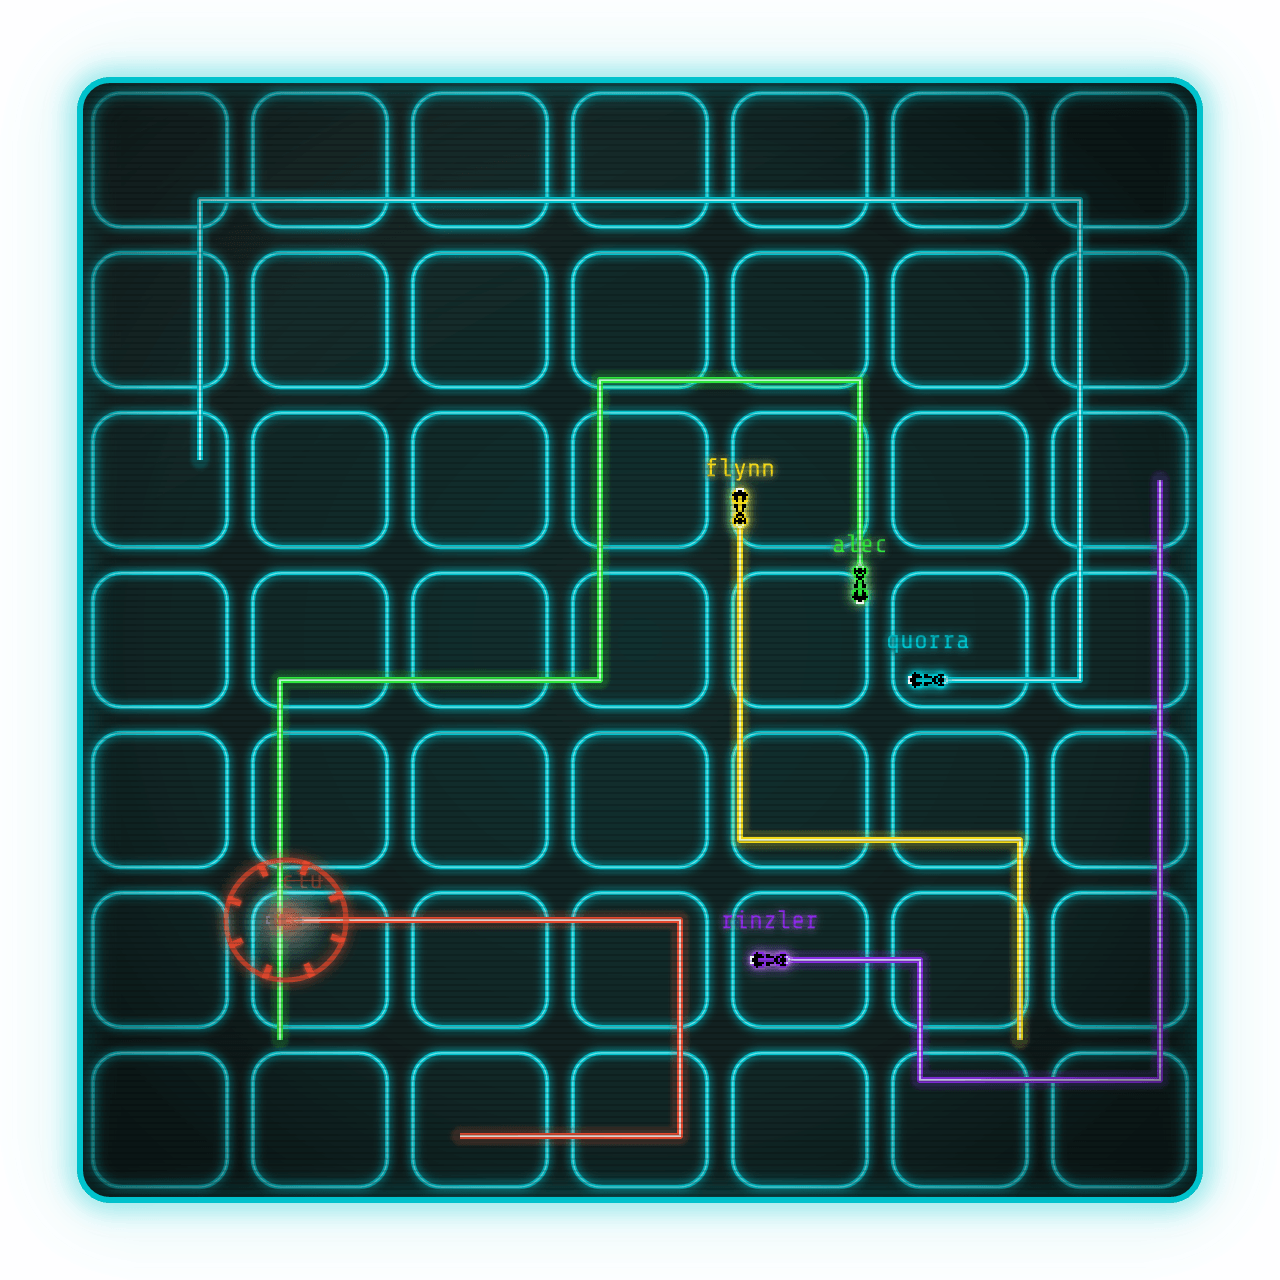
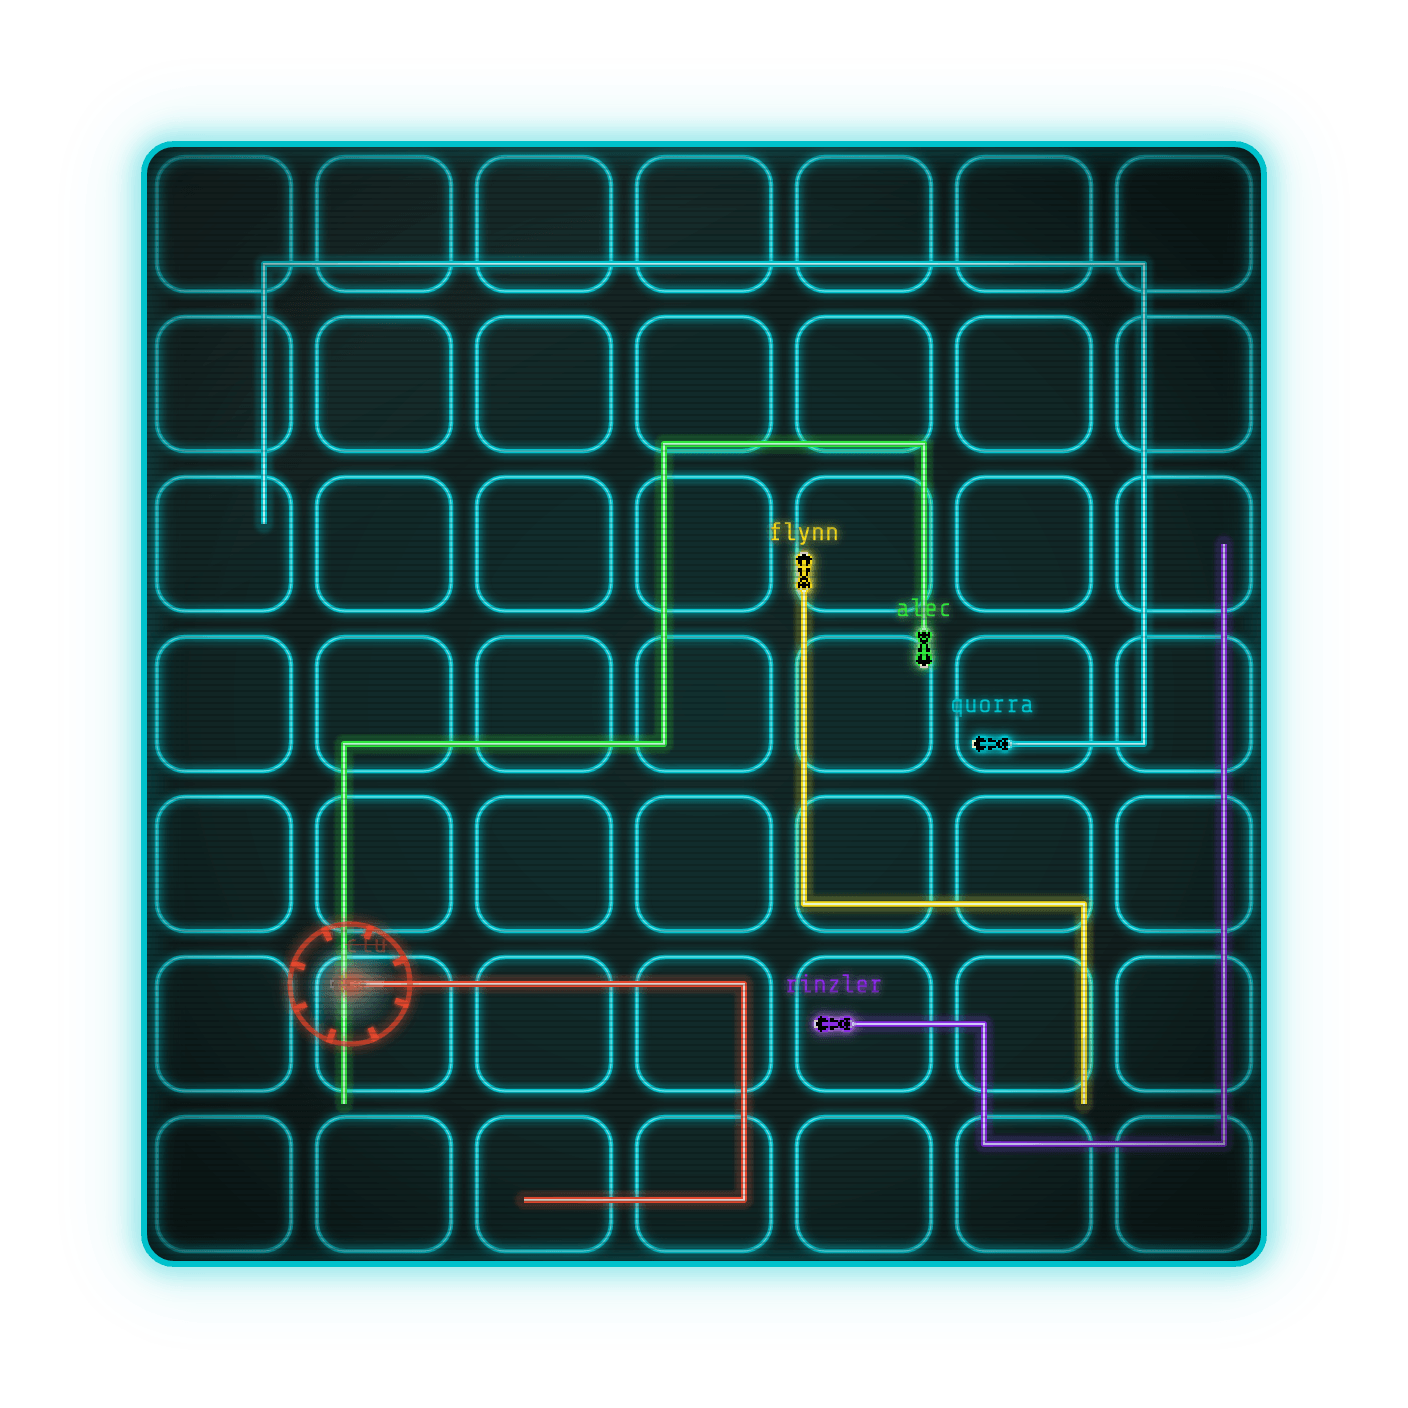
docs: stop the README screenshot glow from clipping at the image edge
The frame's outer glow reached past the 40px padding. Padding is now 72px
and the glow blur is slightly tighter, so it fades to fully transparent
before the edge. The README display width goes from 640 to 704 to keep
the game box at 560px.

diff --git a/README.md b/README.md
@@ -4,7 +4,7 @@
 
 A browser-based multiplayer implementation of the classic Tron Lightcycles arcade game.
 
-<a href="https://tron.shirls.org"><img src="screenshot.png" width="640" alt="a screenshot of an in-progress webtron game"></a>
+<a href="https://tron.shirls.org"><img src="screenshot.png" width="704" alt="a screenshot of an in-progress webtron game"></a>
 
 </div>
 
